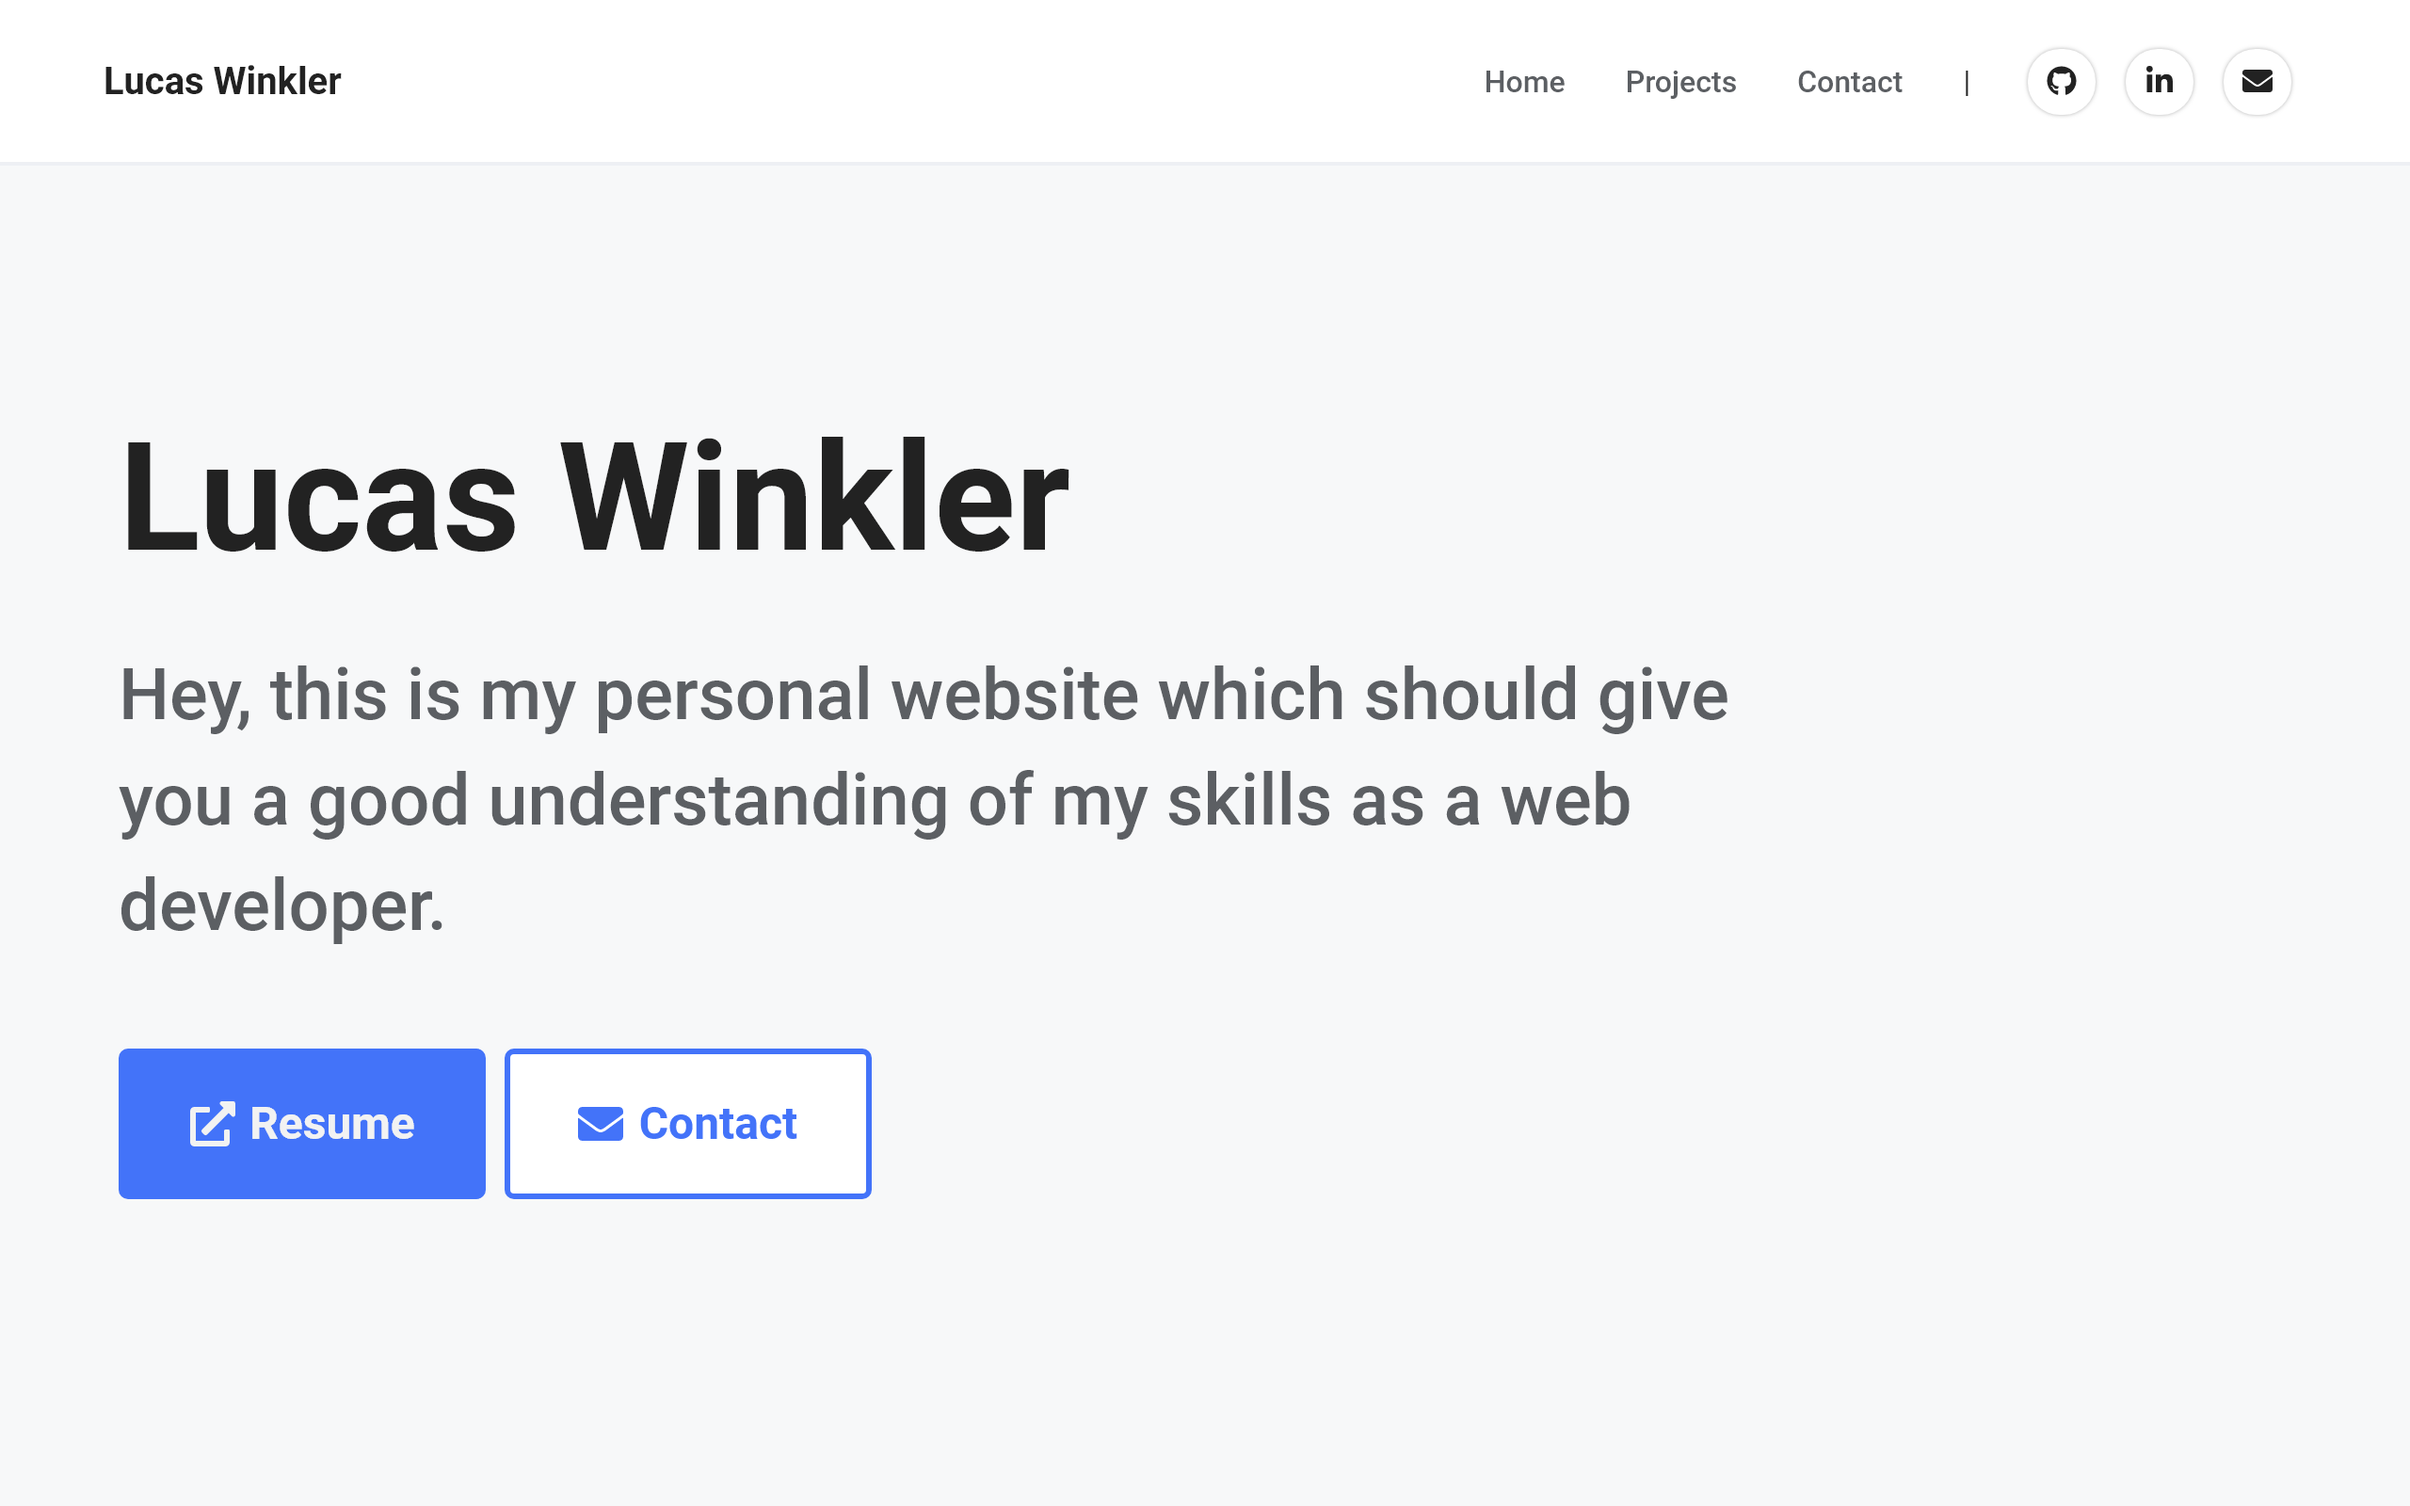
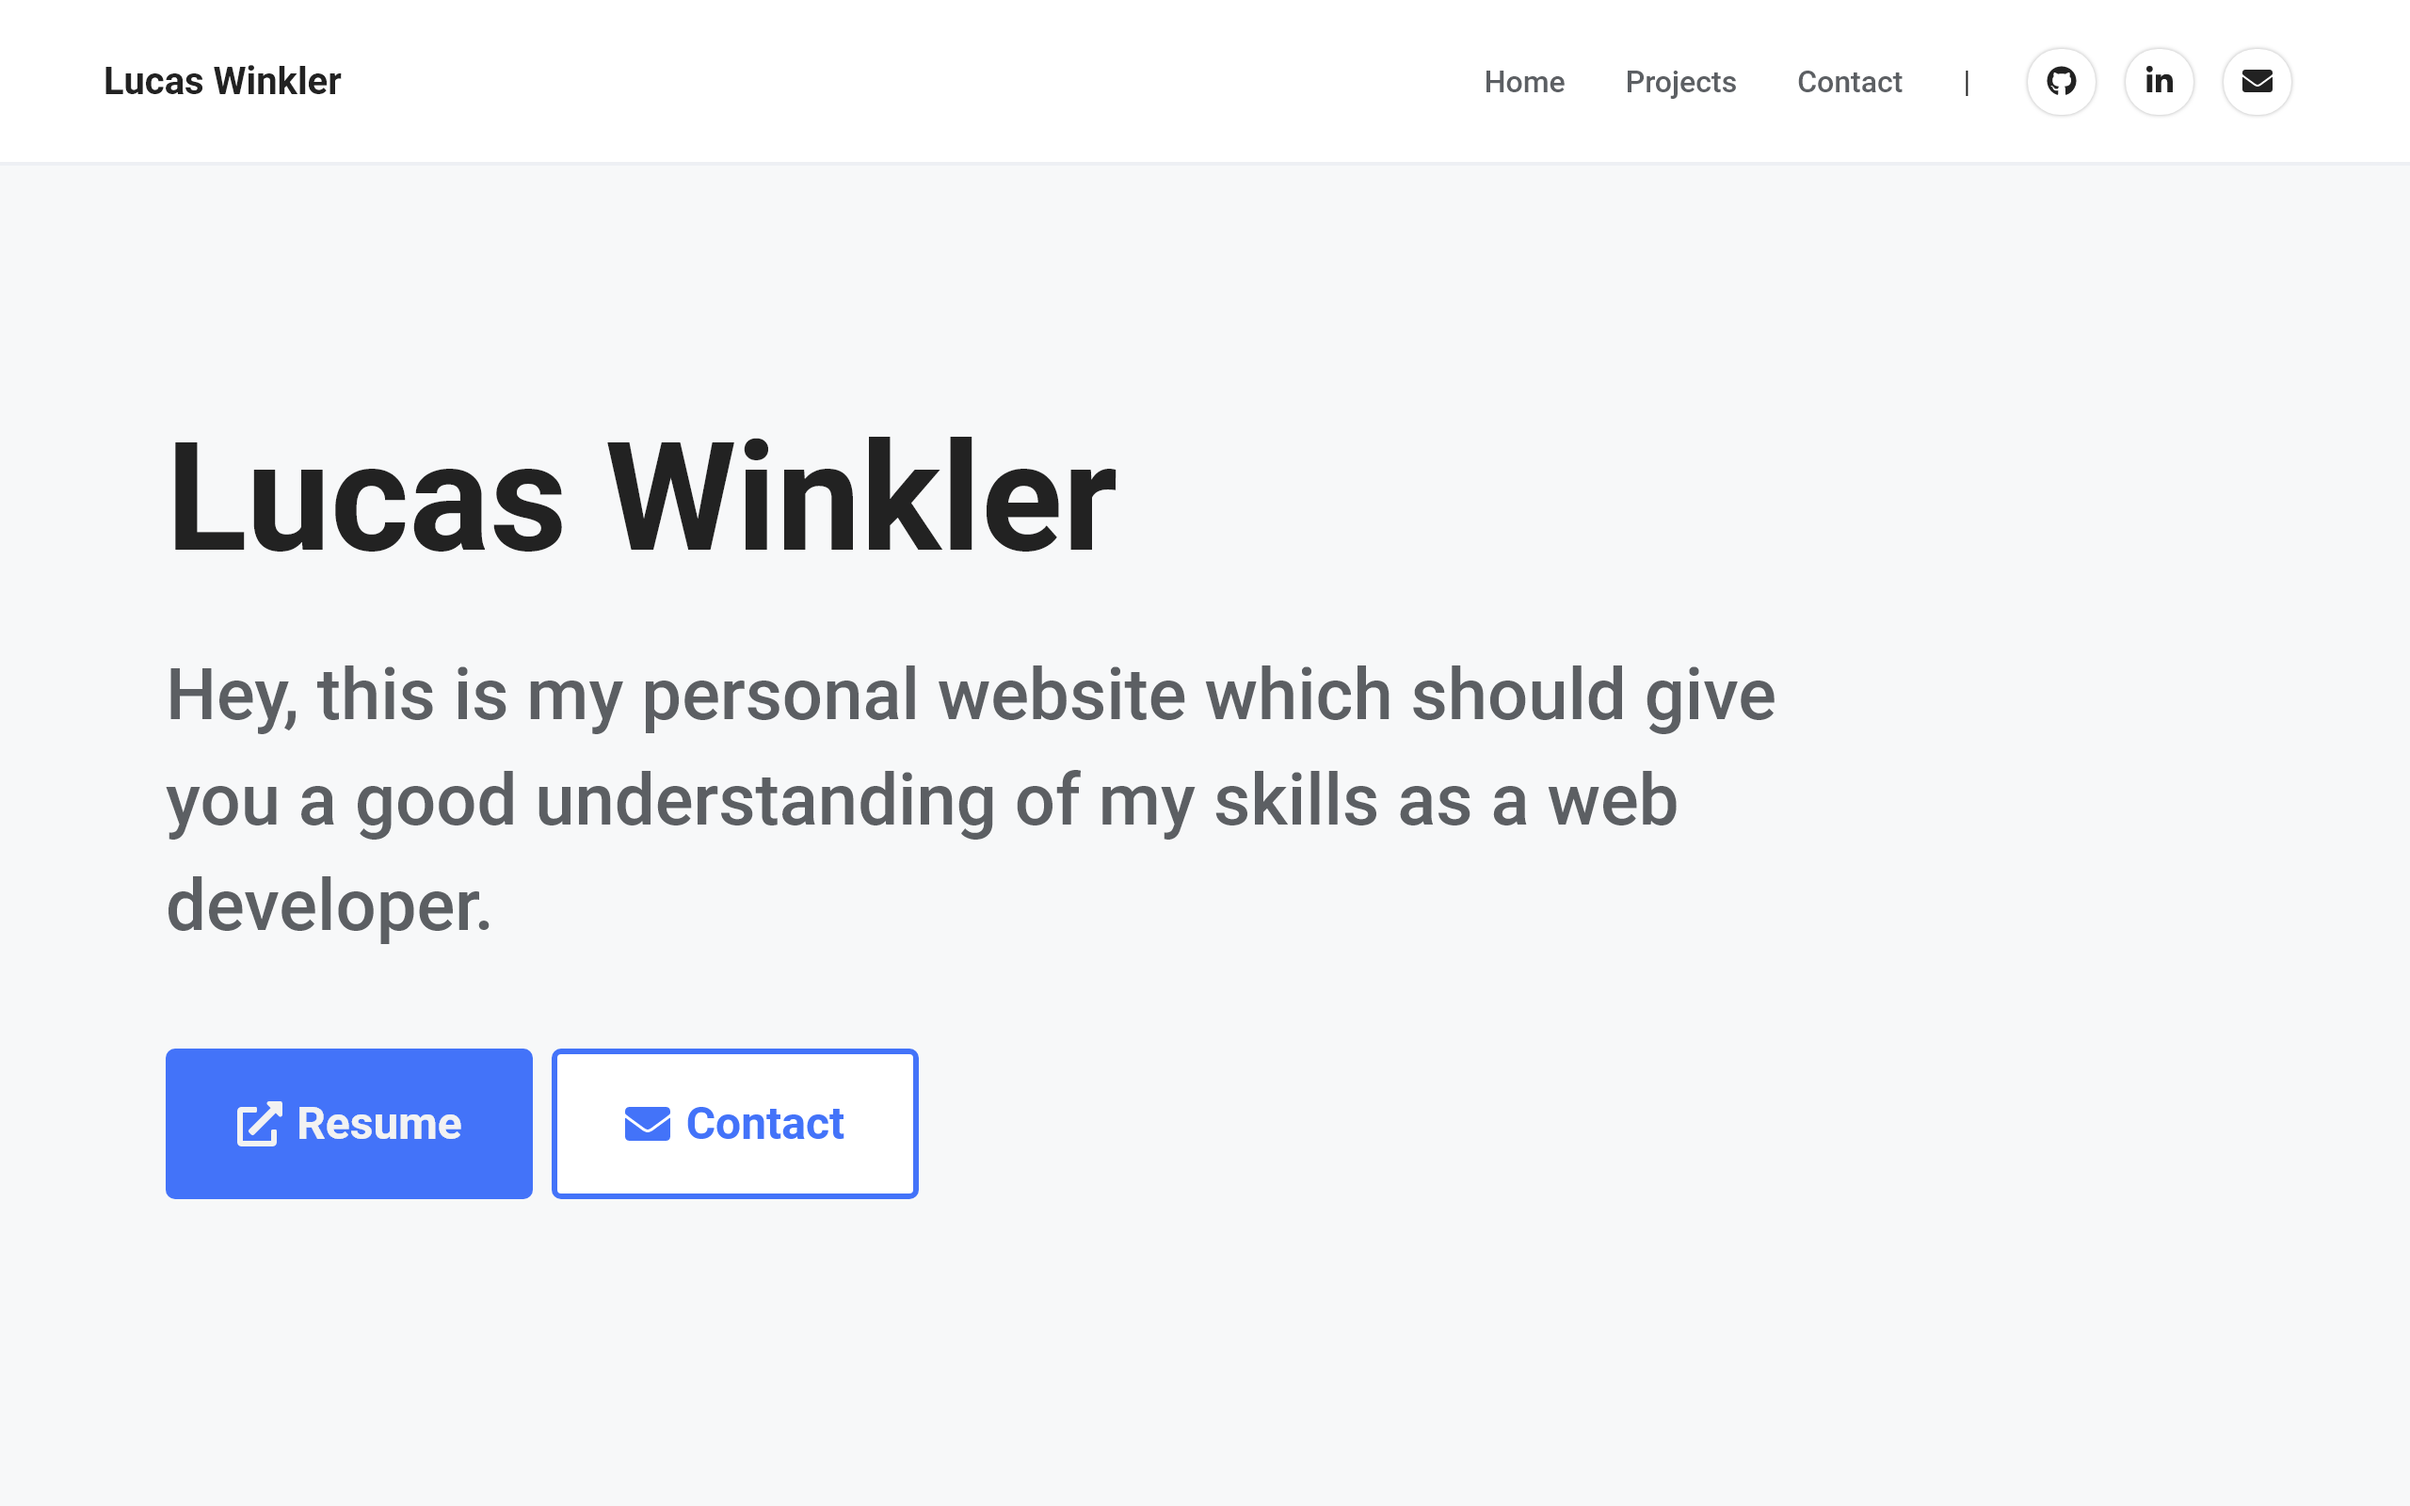
Fixed hero container margin

diff --git a/src/scss/components/_hero.scss b/src/scss/components/_hero.scss
@@ -8,7 +8,8 @@
     justify-content: center;
     align-items: flex-start;
     height: calc(100vh - 88px);
-    margin: 0 3rem;
+    padding-left: 3rem;
+    padding-right: 3rem;
 
     @media (max-width: 600px) {
       margin: 0 1rem;
